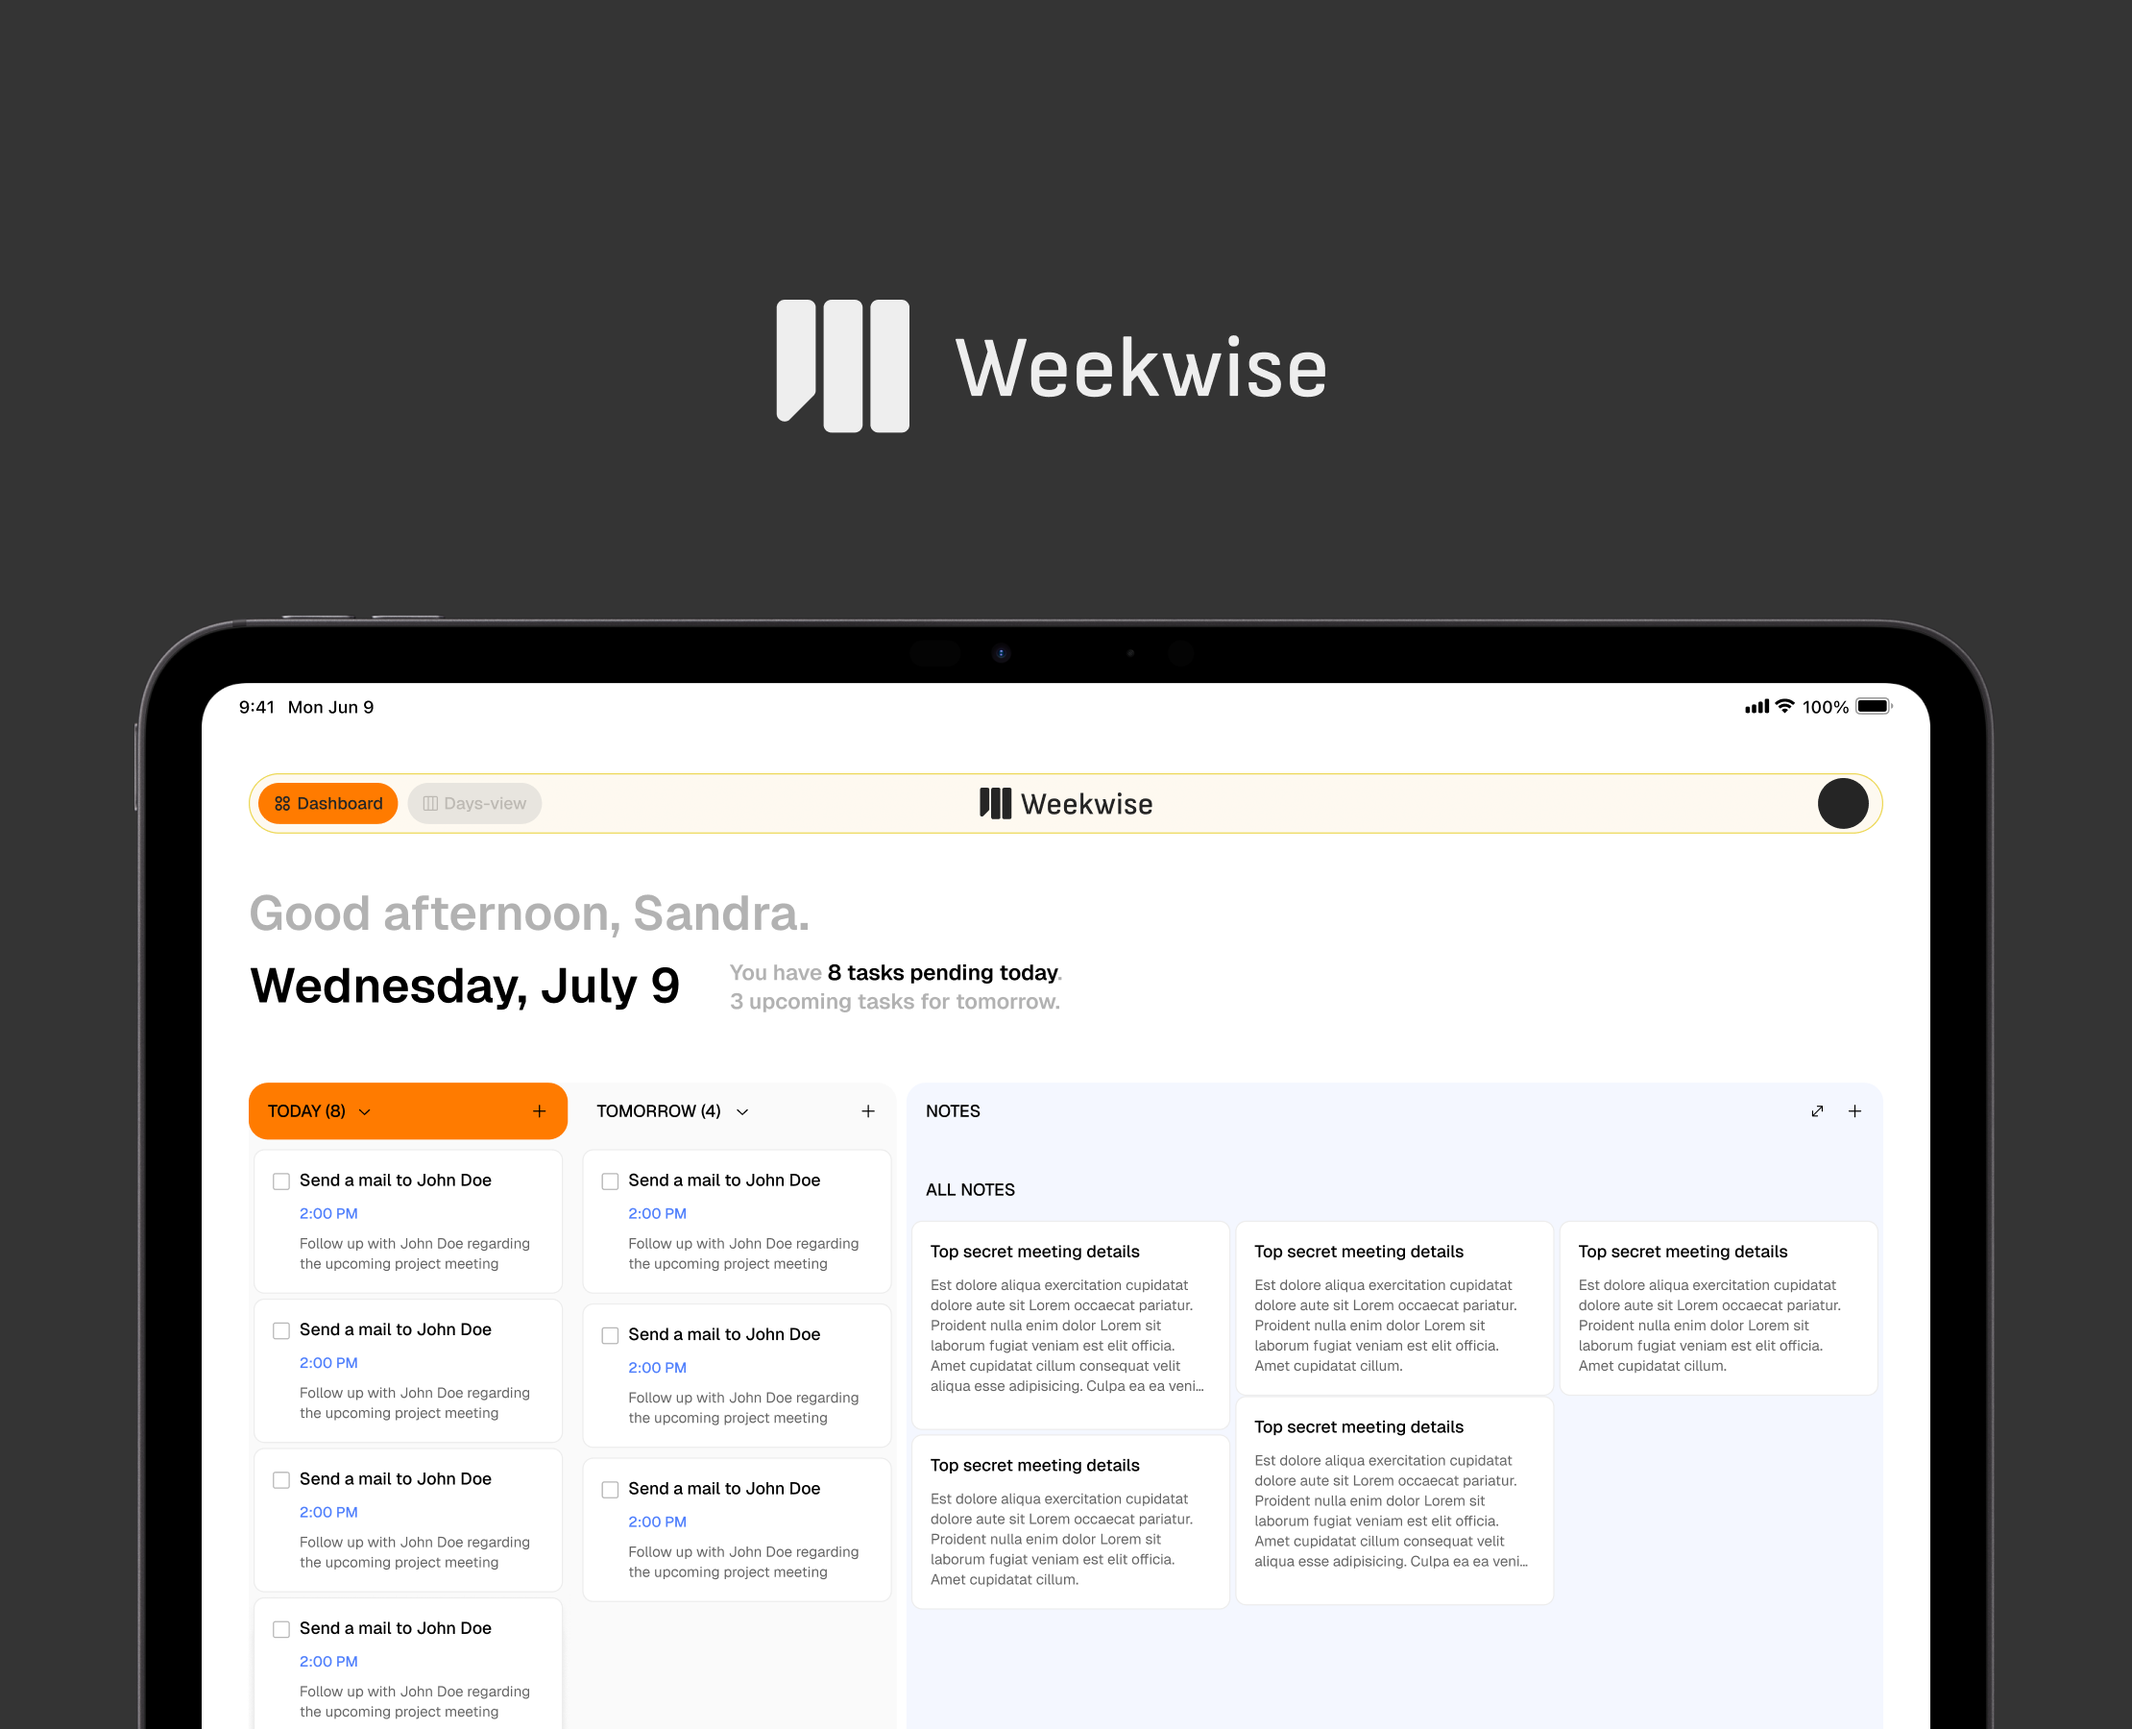
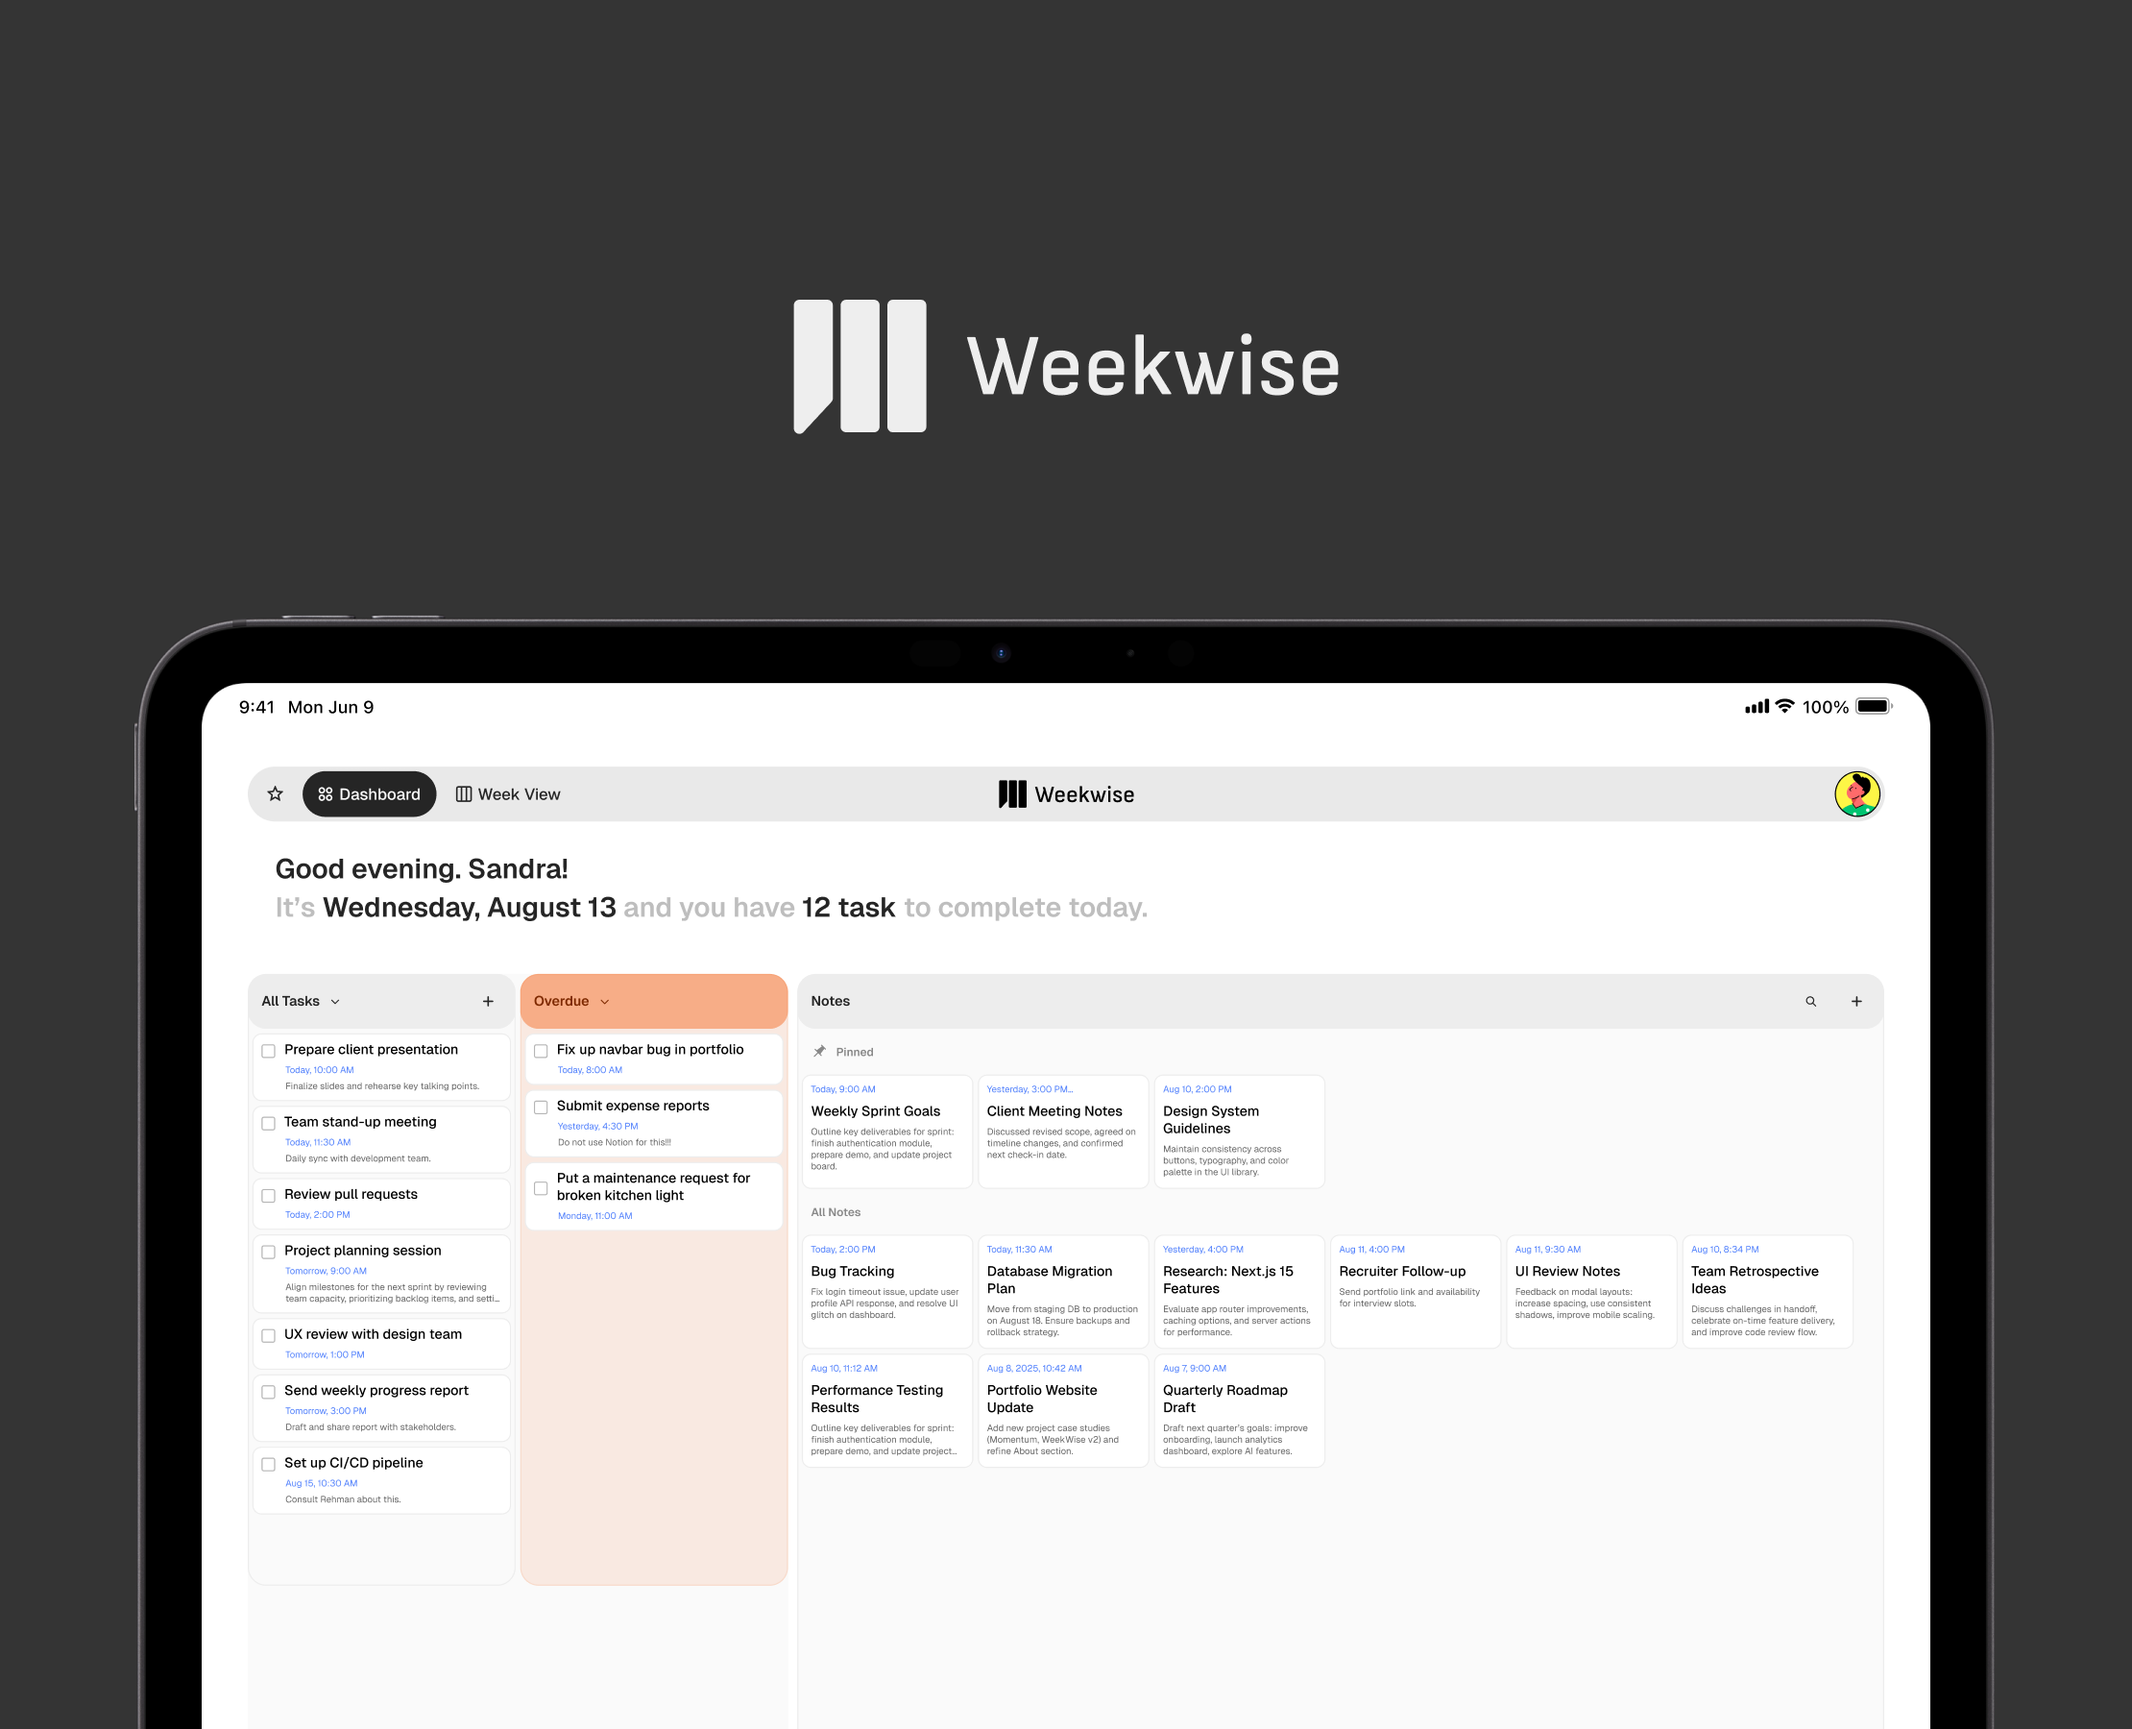
Added new project screenshots to WeekwiseContent component and updated images for weekwise hero and thumbnail.

diff --git a/src/app/components/WeekwiseContent.tsx b/src/app/components/WeekwiseContent.tsx
@@ -164,6 +164,40 @@ export default function WeekwiseContent() {
                 </div>
             </motion.div>
 
+            {/* Project Screenshots */}
+            {/* Project Image */}
+            <motion.div
+                initial={{ y: 30, opacity: 0 }}
+                whileInView={{ y: 0, opacity: 1 }}
+                viewport={{ once: true }}
+                transition={{ duration: 0.25, ease: "easeOut", delay: 0.1 }}
+                className="relative -mx-6 md:-mx-20 lg:-mx-60 rounded-lg overflow-hidden"
+            >
+                <Image
+                    src="/projects-images/weekwise/weekwise-dashboard.png"
+                    alt="Weekwise Project Screenshot"
+                    width={1000}
+                    height={100}
+                    className="w-7xl h-full object-cover mx-auto"
+                />
+            </motion.div>
+
+            <motion.div
+                initial={{ y: 30, opacity: 0 }}
+                whileInView={{ y: 0, opacity: 1 }}
+                viewport={{ once: true }}
+                transition={{ duration: 0.25, ease: "easeOut", delay: 0.1 }}
+                className="relative -mx-6 md:-mx-20 lg:-mx-60 rounded-lg overflow-hidden"
+            >
+                <Image
+                    src="/projects-images/weekwise/weekwise-weekview.png"
+                    alt="Weekwise Project Screenshot"
+                    width={1000}
+                    height={100}
+                    className="w-7xl h-full object-cover mx-auto"
+                />
+            </motion.div>
+
             {/* Bottom Spacing */}
             <div className="h-16" />
         </div>
